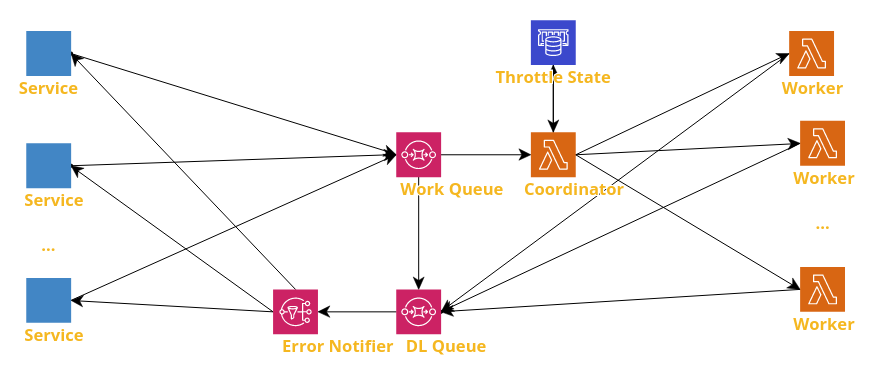
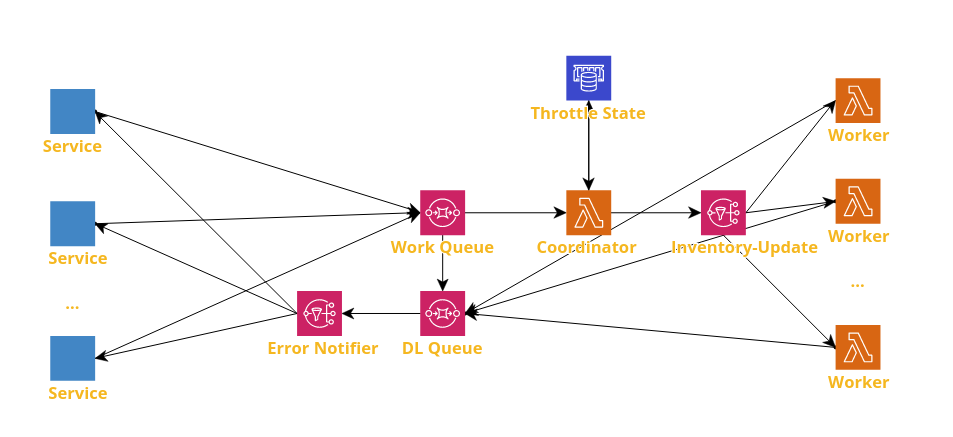
Simple coordinator implementation

diff --git a/coordinator/src/index.ts b/coordinator/src/index.ts
@@ -1,0 +1,13 @@
+import { SQSHandler, SQSEvent } from 'aws-lambda';
+import { config, SNS } from 'aws-sdk';
+
+export const handler: SQSHandler = async (event: SQSEvent): Promise<void> => {
+  config.update({ region: 'us-east-2' });
+  const sns: SNS = new SNS();
+  await sns
+    .publish({
+      Message: JSON.stringify(event),
+      TopicArn: 'arn:aws:sns:us-east-2:965438198912:inventory-update'
+    })
+    .promise();
+};

diff --git a/README.md b/README.md
@@ -108,3 +108,4 @@ Message are ending up in the dead letter queue inconsistently, and very slowly.
 - SNS Error Notifier
 - Coordinator
 - Throttle State
+- KMS to hide API secrets
